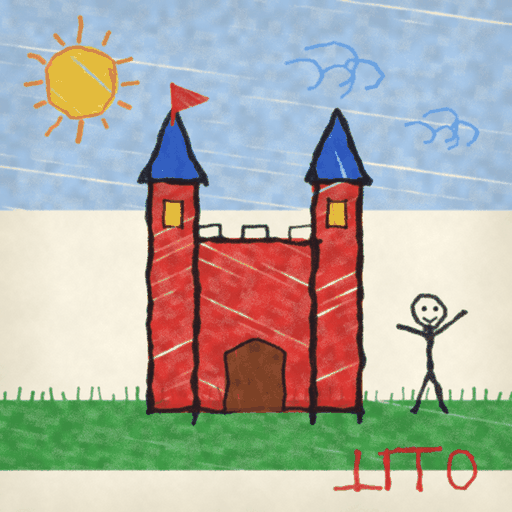
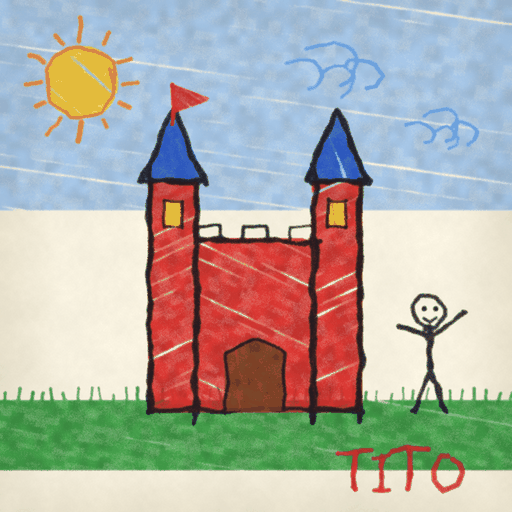
wip(v2): cópia de segurança
Claude-Session: https://claude.ai/code/session_01GVJkz4MKNu2LjEob3nRxMc

Changed region(s): [[0.6562, 0.8438, 0.9375, 0.9688], [0.8125, 0.625, 0.875, 0.6562]]

diff --git a/tools/gerar_desenhos.py b/tools/gerar_desenhos.py
@@ -269,27 +269,27 @@ class Folha:
 
 # ------------------------------------------------------------------ pedaços de desenho infantil
 def assinatura(f, x, y, h=34, cor=VERMELHO, larg=5):
-    """"TITO" em giz, com o primeiro T de cabeça para baixo (V2 §5: "o T ao contrário"): a criança escreve o
-    próprio nome e erra a letra que ela mais repetiu. Letras desiguais, o último O não fecha direito."""
+    """"TITO" em giz, escrito normalmente, com o traço tremido de uma criança de 9 anos. O "erro de criança" é o
+    desalinho: as letras sobem e descem, ficam tortas e de tamanhos diferentes, e o O não fecha (ver V2 §5)."""
     f.cor(cor)
     r = f.rng
     xs = x
-    # T invertido (⊥): haste em cima, travessa embaixo
-    w = h * 0.95
-    f.linha([(xs + w / 2, y), (xs + w / 2 + r.uniform(-1, 1), y + h)], larg, 1.0)
-    f.linha([(xs - 4, y + h), (xs + w + 5, y + h - 1)], larg, 1.0)
-    xs += w + h * 0.35
-    # I
-    f.linha([(xs, y + 1), (xs + 1, y + h * 1.02)], larg, 1.0)
-    f.linha([(xs - 6, y + 1), (xs + 7, y)], larg - 1, 0.8)
-    xs += h * 0.4
-    # T normal, um pouco maior
-    h2 = h * 1.08
-    f.linha([(xs - 3, y - 3), (xs + w + 3, y - 2)], larg, 1.0)
-    f.linha([(xs + w / 2, y - 2), (xs + w / 2 + 1, y + h2 - 2)], larg, 1.0)
-    xs += w + h * 0.4
-    # O (não fecha)
-    f.elipse(xs + h * 0.32, y + h * 0.5, h * 0.34, h * 0.5, larg, 1.0, a0=-1.2, a1=-1.2 + 2 * math.pi + 0.5, passes=1)
+    w = h * 0.8
+    # (T, I, T, O) com altura, inclinação e deslocamento vertical próprios
+    for k, (letra, dy, hh, incl) in enumerate([("T", 0, h, 0.06), ("I", 5, h * 0.92, -0.08), ("T", -3, h * 1.1, 0.1), ("O", 4, h * 0.95, 0)]):
+        yy = y + dy
+        if letra == "T":
+            f.linha([(xs - 3, yy + incl * 8), (xs + w + 3, yy - incl * 8)], larg, 1.2)
+            f.linha([(xs + w / 2 + incl * 10, yy), (xs + w / 2 - incl * 10, yy + hh)], larg, 1.2)
+            xs += w + h * 0.3
+        elif letra == "I":
+            f.linha([(xs + 2 - incl * 10, yy), (xs + 2 + incl * 10, yy + hh)], larg, 1.2)
+            f.linha([(xs - 5, yy + 1), (xs + 9, yy - 1)], larg - 1, 0.8)
+            f.linha([(xs - 5, yy + hh), (xs + 9, yy + hh + 1)], larg - 1, 0.8)
+            xs += h * 0.42
+        else:
+            # O aberto em cima, como quem não fecha o círculo
+            f.elipse(xs + h * 0.36, yy + hh * 0.5, h * 0.36, hh * 0.5, larg, 1.3, a0=-1.1, a1=-1.1 + 2 * math.pi - 0.55, passes=1)
 
 
 def boneco(f, x, y, escala=1.0, cor=PRETO, larg=5, sorriso=True, braco_e=(-30, 25), braco_d=(30, 25), corpo_h=38, cabeca=14,
